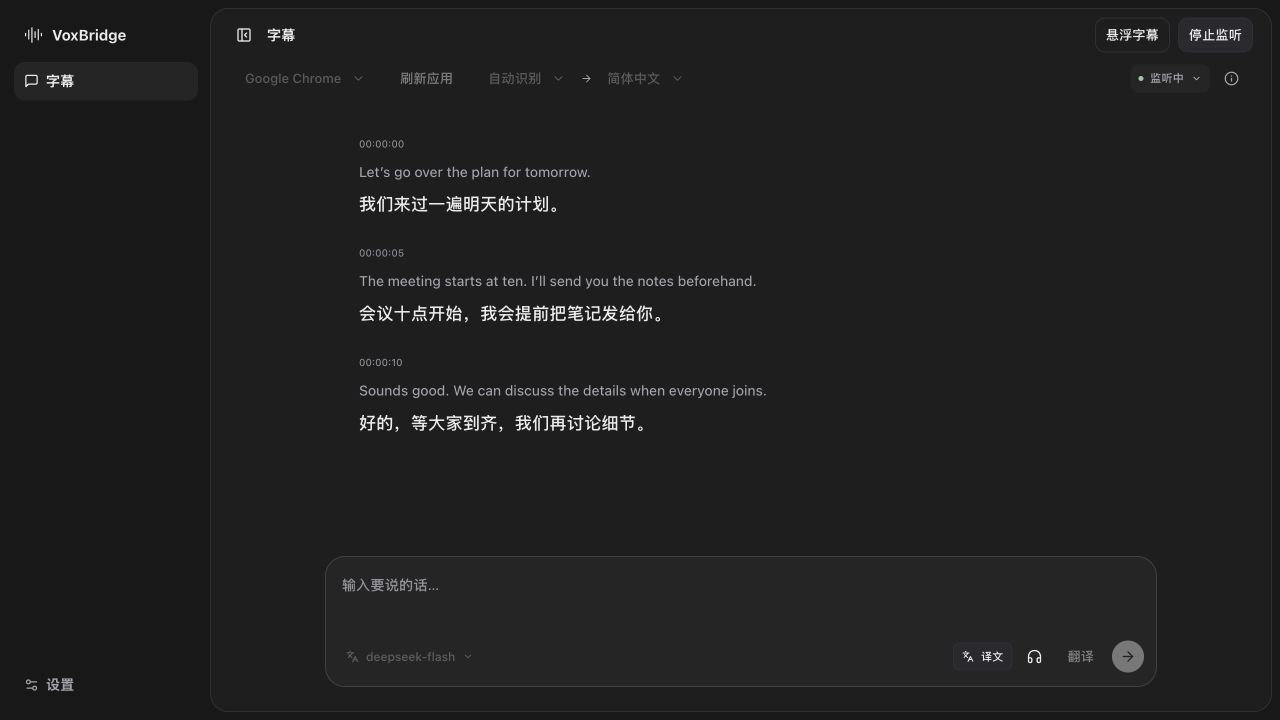
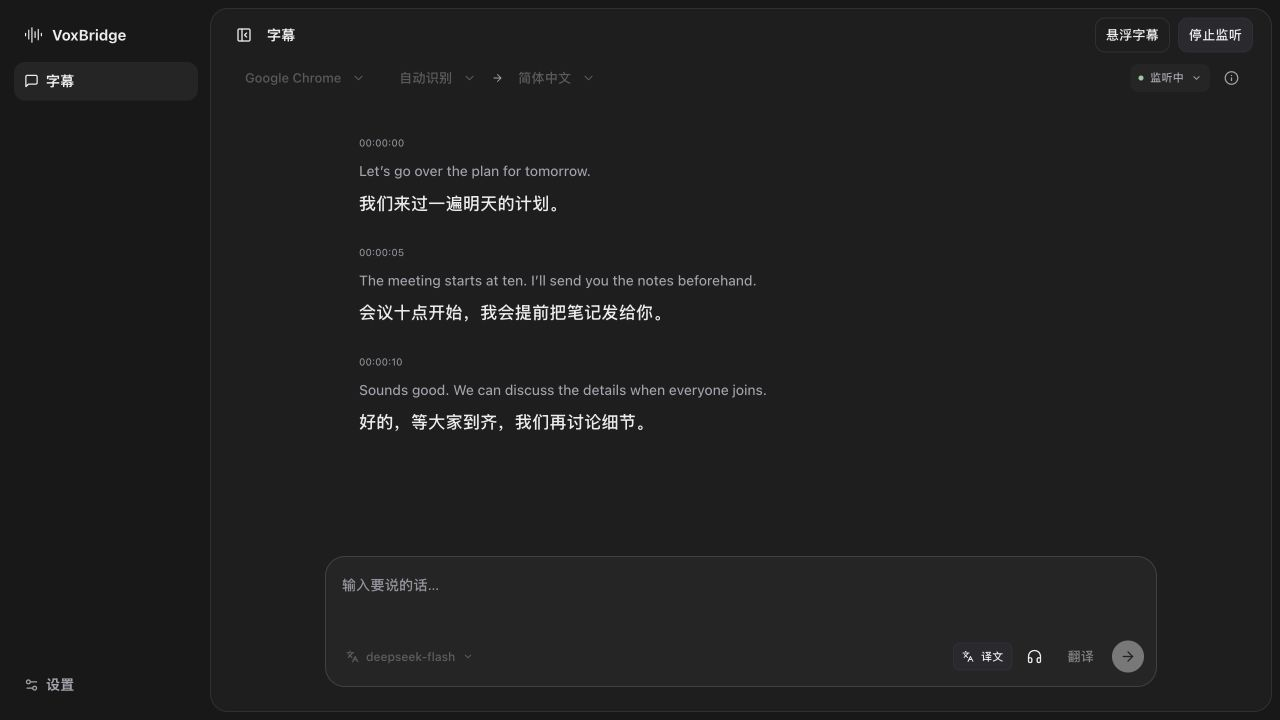
fix: keep composer editable during output and move refresh into settings

diff --git a/src/App.tsx b/src/App.tsx
@@ -113,6 +113,7 @@ export default function App() {
   const listenEpochRef = useRef(new ListeningEpoch());
   const listening = listenPhase !== 'idle';
   const [text, setText] = useState('');
+  const draftRevisionRef = useRef(0);
   const [composerPhase, setComposerPhase] = useState<ComposerPhase>('idle');
   const busy = composerPhase !== 'idle';
   const [composer] = useState(
@@ -222,6 +223,7 @@ export default function App() {
       setCaptureSources(await listCaptureSources());
     } catch (error) {
       setListenError(String(error));
+      if (page === 'settings') notify(String(error));
     } finally {
       setRefreshingSources(false);
     }
@@ -366,6 +368,18 @@ export default function App() {
     }
     const id = crypto.randomUUID();
     const source = text;
+    const sourceRevision = draftRevisionRef.current;
+    let clearedRevision: number | null = null;
+    const restoreSubmittedDraft = () => {
+      if (
+        mountedRef.current &&
+        clearedRevision !== null &&
+        draftRevisionRef.current === clearedRevision
+      ) {
+        draftRevisionRef.current++;
+        setText(source);
+      }
+    };
     const time = new Date().toLocaleTimeString('zh-CN', { hour12: false });
     try {
       const outcome = await composer.run(
@@ -379,6 +393,16 @@ export default function App() {
         },
         {
           notice: notify,
+          accepted: () => {
+            if (
+              action === 'speak' &&
+              route === 'send' &&
+              draftRevisionRef.current === sourceRevision
+            ) {
+              clearedRevision = ++draftRevisionRef.current;
+              setText('');
+            }
+          },
           phase: (phase) => {
             if (mountedRef.current) setComposerPhase(phase);
           },
@@ -390,9 +414,9 @@ export default function App() {
           },
         },
       );
-      if (mountedRef.current && outcome === 'completed' && action === 'speak' && route === 'send')
-        setText((current) => (current === source ? '' : current));
+      if (outcome === 'stopped') restoreSubmittedDraft();
     } catch (error) {
+      restoreSubmittedDraft();
       if (mountedRef.current) notify(String(error));
     }
   }
@@ -567,6 +591,9 @@ export default function App() {
               onSave={persist}
               notify={notify}
               onDiagnostics={() => setPage('diagnostics')}
+              onRefreshApplications={refreshCaptureSources}
+              refreshingApplications={refreshingSources}
+              captureSupported={runtime?.platform === 'macos'}
             />
           )}
           {page === 'diagnostics' && (
@@ -599,15 +626,6 @@ export default function App() {
                       : []),
                   ]}
                 />
-                <button
-                  className="subtle"
-                  disabled={
-                    listening || refreshingSources || !desktop || runtime?.platform !== 'macos'
-                  }
-                  onClick={() => void refreshCaptureSources()}
-                >
-                  {refreshingSources ? '刷新中…' : '刷新应用'}
-                </button>
                 <div className="language-pair">
                   <Select
                     label="听取语言"
@@ -721,10 +739,10 @@ export default function App() {
                     id="speech-input"
                     maxLength={500}
                     value={text}
-                    disabled={busy}
                     aria-describedby="composer-hint"
                     title={composerHint}
                     onChange={(event) => {
+                      draftRevisionRef.current++;
                       setText(event.target.value);
                     }}
                     onCompositionStart={() => {

diff --git a/src/core/composer.test.ts b/src/core/composer.test.ts
@@ -44,6 +44,27 @@ function deferred<T>() {
 }
 
 describe('composer operation', () => {
+  it('accepts a validated submission once while holding the operation lock', async () => {
+    const { controller, input, callbacks, dependencies } = fixture();
+    const speech = deferred<void>();
+    dependencies.speak.mockReturnValue(speech.promise);
+    const accepted = vi.fn(() => expect(controller.busy).toBe(true));
+    const running = controller.run(input, { ...callbacks, accepted });
+    expect(accepted).toHaveBeenCalledOnce();
+    expect(await controller.run({ ...input, id: 'next' }, { ...callbacks, accepted })).toBe('busy');
+    expect(accepted).toHaveBeenCalledOnce();
+    speech.resolve();
+    expect(await running).toBe('completed');
+  });
+  it('does not accept or clear the draft when validation fails', async () => {
+    const { controller, input, callbacks } = fixture();
+    const accepted = vi.fn();
+    input.settings.audio.sendDeviceId = '';
+    await expect(controller.run(input, { ...callbacks, accepted })).rejects.toThrow('发送设备');
+    expect(accepted).not.toHaveBeenCalled();
+    expect(controller.busy).toBe(false);
+  });
+
   it('translates then speaks the returned text with the exact selected route', async () => {
     const { controller, input, callbacks, dependencies } = fixture();
     expect(await controller.run(input, callbacks)).toBe('completed');

diff --git a/src/components/SettingsPanel.tsx b/src/components/SettingsPanel.tsx
@@ -36,6 +36,9 @@ export default function SettingsPanel({
   onSave,
   notify,
   onDiagnostics,
+  onRefreshApplications,
+  refreshingApplications,
+  captureSupported,
   section,
   onBusyChange,
 }: {
@@ -45,6 +48,9 @@ export default function SettingsPanel({
   onSave: (settings: Settings) => void;
   notify: (message: string) => void;
   onDiagnostics: () => void;
+  onRefreshApplications: () => Promise<void>;
+  refreshingApplications: boolean;
+  captureSupported: boolean;
   section: SettingsSection;
   onBusyChange: (busy: boolean) => void;
 }) {
@@ -460,6 +466,16 @@ export default function SettingsPanel({
               </button>
             </div>
             <div className="preference-card">
+              <SettingRow title="监听应用">
+                <button
+                  className="subtle"
+                  disabled={!desktop || !captureSupported || refreshingApplications}
+                  onClick={() => void onRefreshApplications()}
+                >
+                  <RefreshCw size={14} />
+                  {refreshingApplications ? '刷新中…' : '刷新应用'}
+                </button>
+              </SettingRow>
               <SettingRow title="虚拟麦克风">
                 <span className="preference-value">
                   {devices.some((d) => d.id === voxBridgeOutputId)

diff --git a/src/core/composer.ts b/src/core/composer.ts
@@ -82,6 +82,7 @@ export class ComposerController {
       output?: ComposerSettings['output'];
     },
     callbacks: {
+      accepted?: () => void;
       phase: (phase: ComposerPhase) => void;
       translation: (text: string) => void;
       notice?: (message: string) => void;
@@ -122,6 +123,7 @@ export class ComposerController {
     };
     this.operation = operation;
     try {
+      callbacks.accepted?.();
       let content = text;
       if (needsTranslation) {
         callbacks.phase('translating');

diff --git a/docs/validation/2026-10-23-composer-drafts.md b/docs/validation/2026-10-23-composer-drafts.md
@@ -1,0 +1,26 @@
+# 输出期间编辑下一段草稿
+
+2026-10-23：根据工作台体验反馈，移除主工具栏的“刷新应用”，将手动入口放到设置 → 常规 → 音频 → 监听应用。应用选择下拉框展开时仍自动刷新，原有诊断中的恢复入口保留。
+
+## 输入行为
+
+- 输入框在翻译、准备设备、合成、播放、停止期间均保持可编辑。
+- 发送经过配置/长度/设备校验，并占用当前任务后，清空已提交的输入，方便立刻写下一段。仅翻译和独立 preview 路由继续保留原有草稿行为。
+- 当前任务仍为单条执行。期间 Enter 不会发送第二条，也不自动排队；Shift + Enter 可换行，输入法组合输入的处理保持不变。
+- 每次用户编辑递增草稿版本。提交清空后，旧任务完成不再清空输入；失败或取消只在草稿版本未改变时恢复已提交原文。
+- 即使新草稿与上一条逐字相同，或用户编辑后又删除为空，旧任务也不会覆盖它。
+- 翻译结果使用提交时的文字与配置快照，仍进入字幕区，不受下一段草稿编辑影响。
+
+## 验证
+
+94 项前端测试通过。新增控制器测试确认 accepted 只在校验通过并持有任务锁后触发一次；配置缺失和重复提交不触发 accepted。
+
+使用当前 App、真实 React 输入事件和模拟 IPC 验证：
+
+1. 工作台没有“刷新应用”，设置中可以找到它。
+2. 提交后输入框清空，输出期间仍可输入。
+3. 输出期间再次 Enter，语音请求计数保持 1。
+4. 新输入与上一条相同的内容，上一条完成后仍保留。
+5. 失败后保留已编辑的新草稿；未编辑时恢复原文。
+
+模拟测试未读取密钥、未调用付费服务或发送实际音频。生产前端构建、格式检查、macOS .app 打包与严格签名校验通过。没有修改 Rust 音频管线。当前已运行的软件不自动重启，避免中断体验或清空会话密钥；新行为在下次启动打包应用时生效。

diff --git a/README.md b/README.md
@@ -19,7 +19,7 @@ _使用当前界面组件生成的演示截图，字幕为示例内容。_
 - **按应用监听**：选择正在运行的应用，自动归并其音频子进程，减少手动选择 PID 的麻烦。
 - **实时翻译字幕**：支持流式识别、自然短句切分和并发翻译；已提交的字幕保留，异常时尝试有界恢复。
 - **悬浮阅读**：透明置顶字幕窗，支持连续阅读、双语 / 原文 / 译文显示，以及字号、颜色和行距调整。
-- **文字表达**：原文与译文统一进入字幕区；支持直接合成原文，或翻译后输出语音，发送成功后清空输入框。
+- **文字表达**：原文与译文统一进入字幕区；支持直接合成原文，或翻译后输出语音，提交发送后清空输入框，输出期间可继续编辑下一段。
 - **独立试听**：同一份合成语音可发送到虚拟麦克风，也可同时在耳机播放。关闭试听不会停止发送。
 - **同时收发**：监听对方声音时，也能输入文字并输出自己的合成语音。
 
@@ -62,7 +62,7 @@ MiniMax 支持 PCM 流式播放；OpenAI-compatible Speech 当前完整接收后
 
 ### 3. 开始监听
 
-1. 让目标应用播放声音，在工作台选择该应用；未出现时点击“刷新应用”。
+1. 让目标应用播放声音，在工作台选择该应用；未出现时重新展开下拉菜单，或在“设置 → 常规 → 音频”中刷新应用。
 2. 设置听取语言与字幕语言，点击“开始监听”。
 3. 首次使用时，按 macOS 提示授予所需的系统音频录制权限。
 4. 原文与译文会显示在字幕区；点击“悬浮字幕”可放到其他窗口上方阅读。
